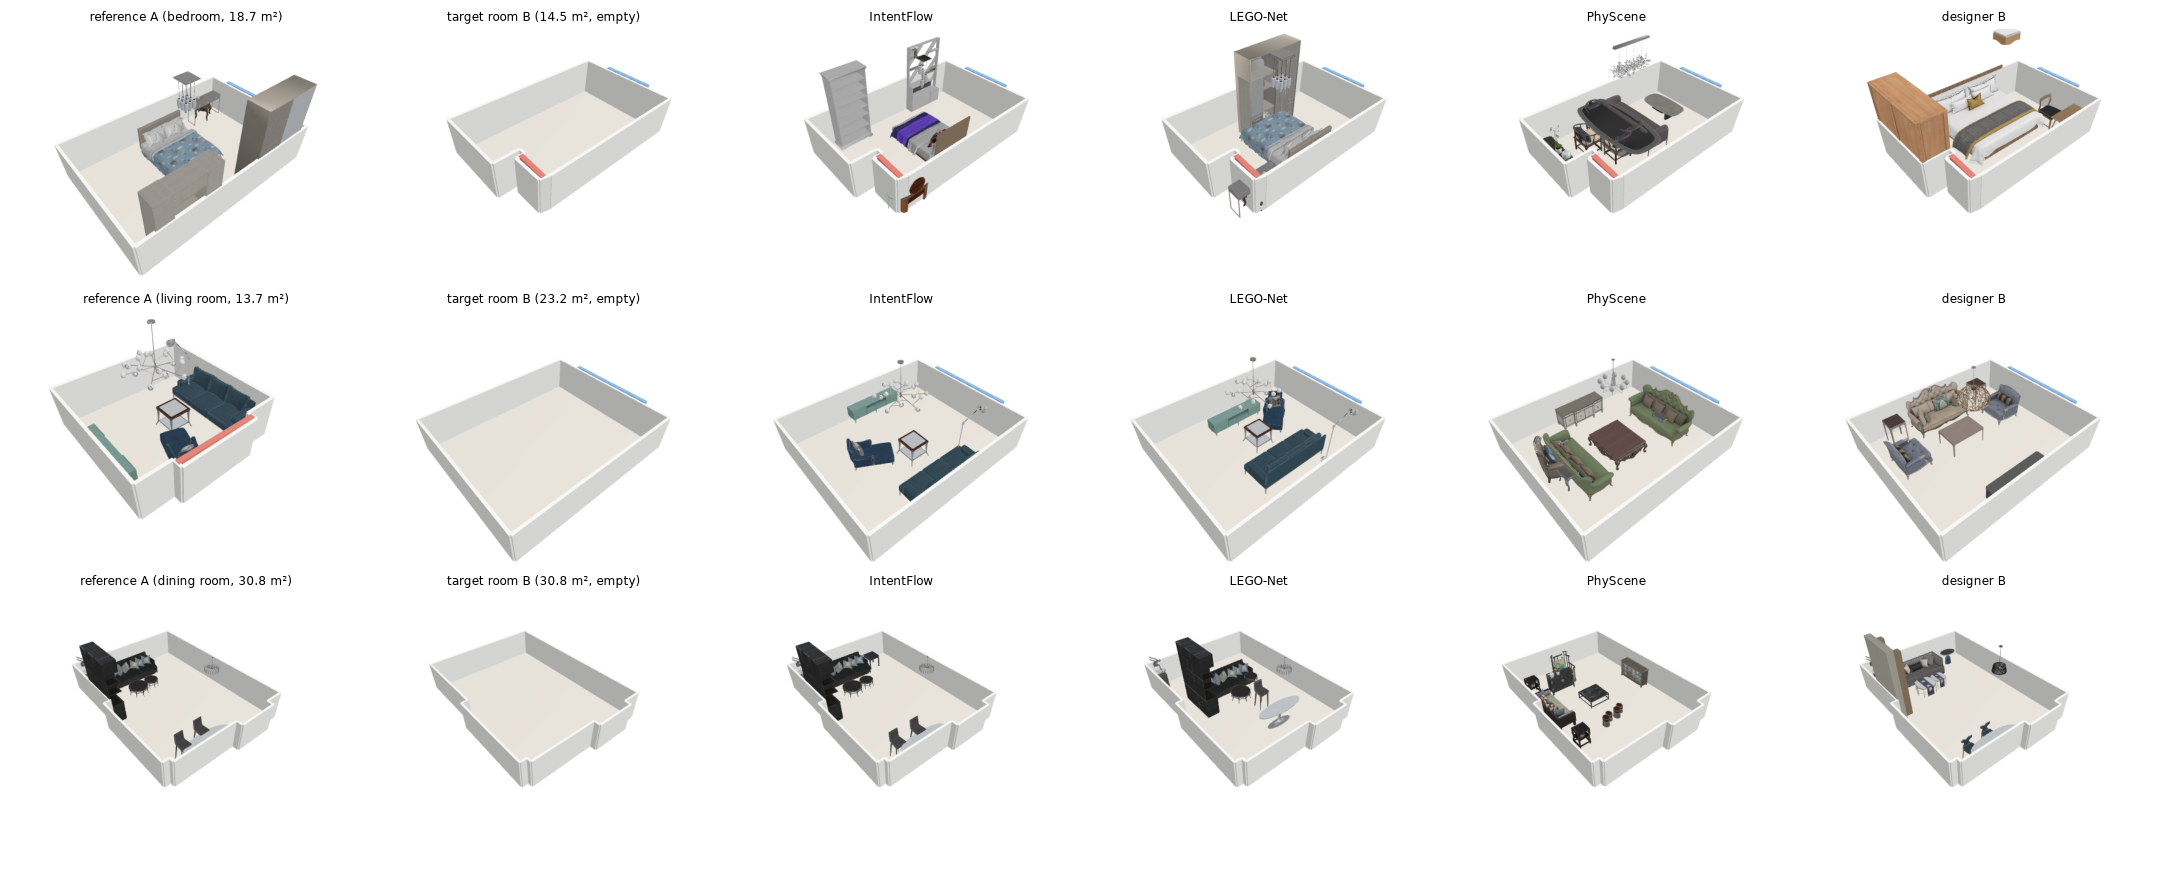
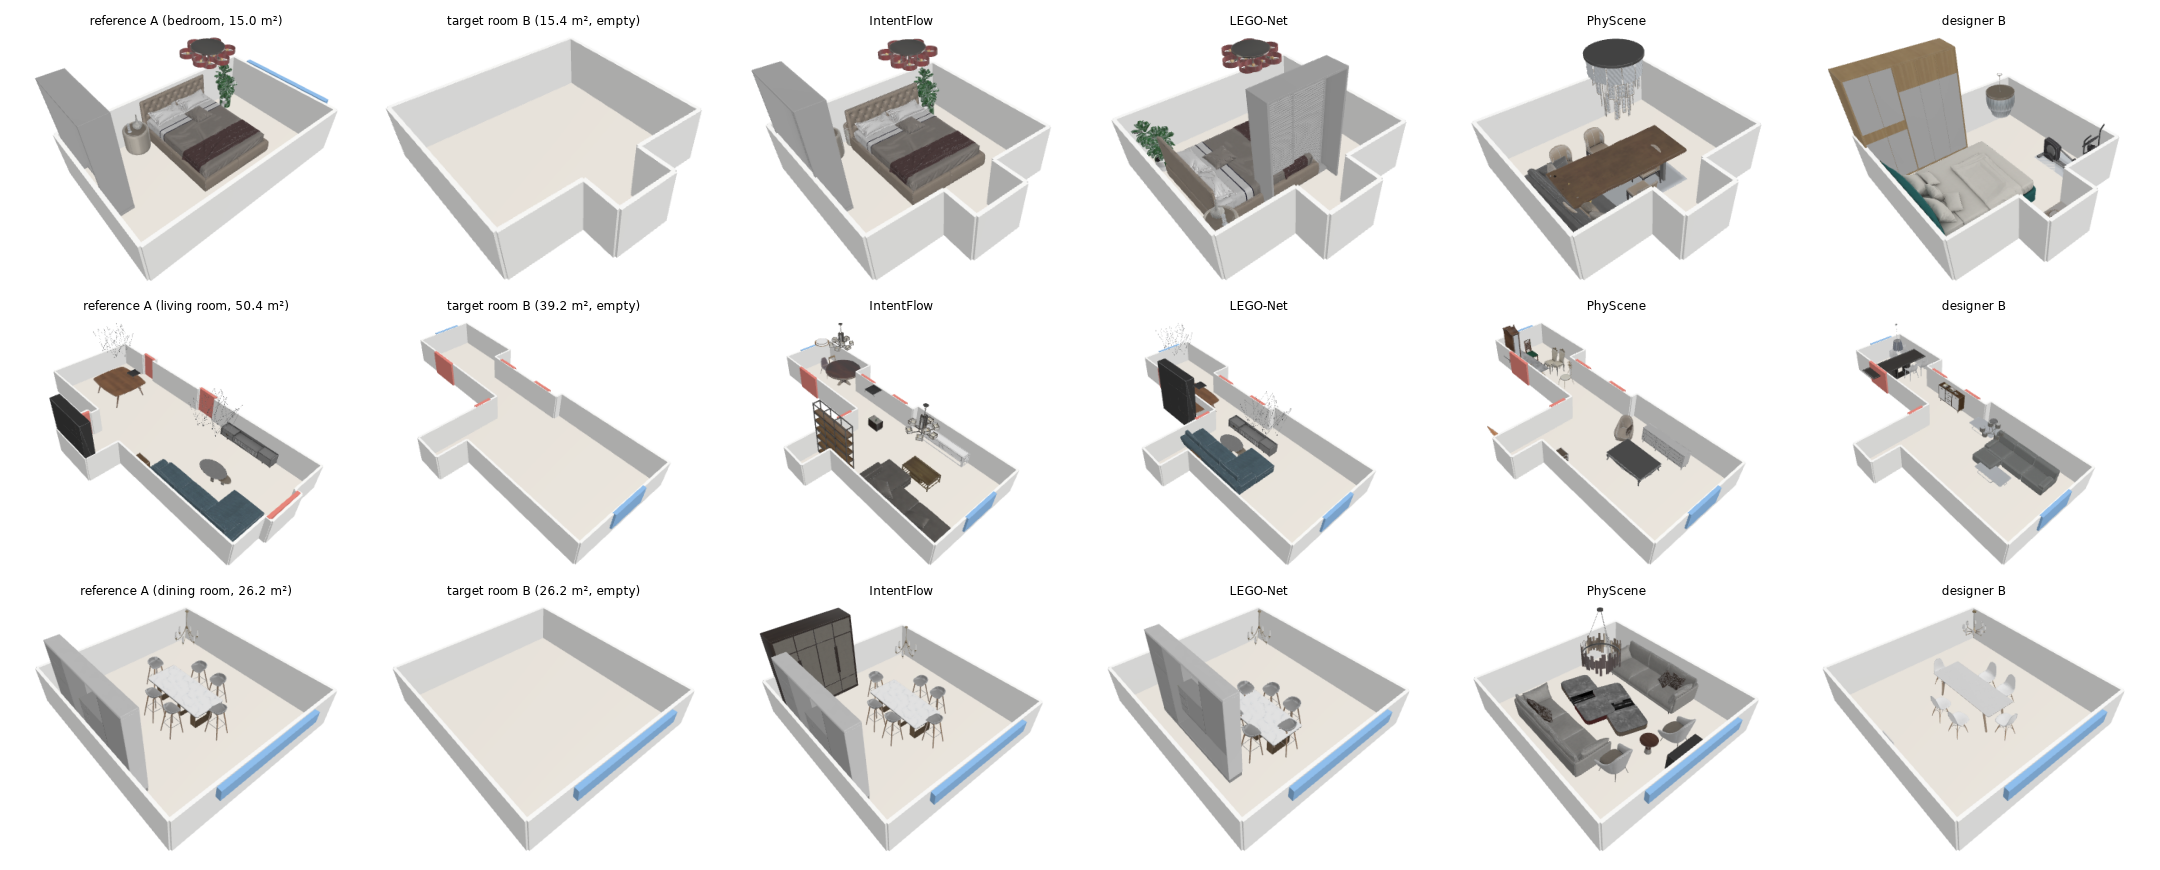
v0.3_paper: Figure 1 rows are the typical pair of each room type (D_A closest to the median); captions from the rows' data

diff --git a/v0.3_paper.html b/v0.3_paper.html
@@ -63,7 +63,7 @@
 <h1>IntentFlow: Moving a Home's Arrangement into Another Room with One Transformer</h1>
 <p class="authors">Anonymous submission</p>
 <p class="links"><a href="#method">Method</a><a href="#experiments">Experiments</a><a href="#refs">References</a><a href="#appendix">Appendix</a></p>
-<figure id="fig-teaser"><img src="assets/v03/render3d_paper_real_cap18.png" alt="teaser" loading="lazy"><figcaption><strong>Figure 1.</strong> Moving a home's arrangement into another room (held-out real pairs of the validation split, one per reference room type, rendered with the 3D-FUTURE assets; PhyScene's boxes are shown with the asset of its class nearest in size). Columns: the reference room A; the target room B as given to the methods (walls, doors, windows; empty); IntentFlow in B; LEGO-Net and PhyScene; designer B's own arrangement. IntentFlow keeps A's bed group and sofa group and fits them to the new walls; in the smaller bedroom the wardrobe becomes a smaller asset of the same 3D-FUTURE fine category. LEGO-Net stacks the wardrobe on the bed; PhyScene lays out its own furniture for the floor plan. Walls are cut at 1.1 m; doors red, windows blue.</figcaption></figure>
+<figure id="fig-teaser"><img src="assets/v03/render3d_paper_real_cap18.png" alt="teaser" loading="lazy"><figcaption><strong>Figure 1.</strong> Moving a home's arrangement into another room, rendered with the 3D-FUTURE assets (rows: for each reference room type, the held-out validation pair (both baselines' layouts stored, 5–12 pieces) whose \(D_A\) with IntentFlow is closest to the median of that type: a typical case, not the best). Columns: the reference room A; the target room B as given to the methods (walls, doors, windows; empty); IntentFlow in B; LEGO-Net and PhyScene (stored layouts; PhyScene's boxes are shown with the asset of its class nearest in size); designer B's own arrangement. Rows: bedroom (15.0 → 15.4 m²): IntentFlow keeps 5 of 5 pieces and adds a nightstand; \(D_A\) 0.064 against LEGO-Net 0.124 and PhyScene — (no piece matched); living room (50.4 → 39.2 m²): IntentFlow keeps 9 of 9 pieces and adds two dining chairs and a ceiling lamp (assets at 0.9× where they must shrink); \(D_A\) 0.094 against LEGO-Net 0.185 and PhyScene 0.426; dining room (26.2 → 26.2 m²): IntentFlow keeps 9 of 9 pieces and adds a wardrobe; \(D_A\) 0.020 against LEGO-Net 0.141 and PhyScene 0.031. Beyond the corpus overlap allowance (the measure of \(\Pi_\theta\)), IntentFlow leaves no piece interpenetrating or outside B. LEGO-Net: the double bed and the wardrobe interpenetrate by 26 cm (bedroom); the wardrobe and the dining table interpenetrate by 40 cm and 3 pieces stand outside B (living room); the dining table and the dining chair interpenetrate by 22 cm (dining room). PhyScene, which lays out its own furniture from its living-room classes: the dining table and the loveseat interpenetrate by 78 cm (bedroom); the sideboard and the dining table interpenetrate by 60 cm and one piece stands outside B (living room); two coffee tables interpenetrate by 3 cm (dining room).  Walls are cut at 1.1 m; doors red, windows blue.</figcaption></figure>
 <div class="abstract"><p><strong>Abstract.</strong> People who like the arrangement of another home want it in their own: the same kind of furniture, arranged the same way,
 in a room with another size and outline and with doors and windows elsewhere. A designer doing this keeps what matters, drops what no longer fits, adds what the new room
 calls for, and places everything so that the groups and their relations to the walls survive. We present IntentFlow, one transformer that makes all of these decisions.
@@ -278,8 +278,8 @@ the torn-pair differences are not significant (p=0.270, p=0.130). Its largest ou
 over all columns is 1.8%. The affine transplant keeps the arrangement best — \(D_A=0.069\) — but leaves 30.7% of pieces outside
 the room: \(D\) measures arrangement, not feasibility, and the gap between the transplant and IntentFlow is what feasibility costs.</p>
 <h3>5.3. Qualitative results</h3>
-<p><a href="#fig-teaser">Fig. 1</a> shows held-out real pairs of the validation split. IntentFlow keeps the reference's bed and sofa groups against the walls of the new room; LEGO-Net moves the transplanted pieces but can
-stack them (the wardrobe on the bed); PhyScene furnishes the floor plan with its own furniture. <a href="#fig-render_std">Fig. 4</a> shows the standard tests; Appendix E adds 2D views of the validation standard tests and of the style test.</p>
+<p><a href="#fig-teaser">Fig. 1</a> shows one typical held-out real pair per room type (the pair whose \(D_A\) is closest to the median of its type). IntentFlow keeps the reference's groups and their
+walls; LEGO-Net moves the transplanted pieces but leaves them overlapping; PhyScene furnishes the floor plan with its own furniture. <a href="#fig-render_std">Fig. 4</a> shows the standard tests; Appendix E adds 2D views of the validation standard tests and of the style test.</p>
 <figure id="fig-render_std"><img src="assets/v03/render3d_paper_std_cap18.png" alt="render_std" loading="lazy"><figcaption><strong>Figure 4.</strong> Standard tests in 3D (validation rooms). Rows: a dining room, a bedroom and a living room; columns: the reference, the room scaled to 0.8× and 1.2×, an L-shaped and a trapezoid room. Titles give pieces kept / reference pieces and pieces added. In the shrunk bedroom fewer pieces are kept and the bed becomes a smaller asset of the same fine category; in the trapezoid and partly in the L room dining chairs drift toward the walls (§5.4).</figcaption></figure>
 <h3>5.4. Ablations</h3>
 <p><strong>Additions.</strong> Table 4 compares addition rules. Proposing one piece at a time and stopping when the set is likely complete, with catch-all categories

diff --git a/v0.3.html b/v0.3.html
@@ -500,7 +500,7 @@ a reference only.</p>
 <tr><td>library (5)</td><td>0.040 / 18%</td><td>0.219 / 21%</td><td>0.389 / 14%</td><td>0.046 / 0%</td></tr>
 </tbody></table></div>
 <p class="lead"><strong>Table 14.</strong> Held-out real pairs per room type: \(D_A\) / out of room. Both baselines are living-room checkpoints; the living-room row is their own domain.</p>
-<figure id="fig-render_real"><img src="assets/v03/render3d_paper_real_cap18.png" alt="render_real" loading="lazy"><figcaption><strong>Figure 3.</strong> Held-out real pairs rendered with the 3D-FUTURE assets (validation; one pair per reference room type). Columns: the reference A; the empty target room B (walls, doors, windows, as given to the methods); IntentFlow (cap18) in B's empty room; LEGO-Net and PhyScene from their stored layouts; designer B's own room. IntentFlow keeps A's bed group and sofa group; in the smaller bedroom its wardrobe is a smaller asset of the same 3D-FUTURE fine category. LEGO-Net stacks the wardrobe on the bed; PhyScene lays out its own furniture for the floor plan and cannot follow A. PhyScene stores classes and boxes only; its boxes are shown with the 3D-FUTURE asset of the mapped category nearest in size, as its own retrieval does. Walls are cut at 1.1 m; doors red, windows blue.</figcaption></figure>
+<figure id="fig-render_real"><img src="assets/v03/render3d_paper_real_cap18.png" alt="render_real" loading="lazy"><figcaption><strong>Figure 3.</strong> Held-out real pairs rendered with the 3D-FUTURE assets (validation; one typical pair per reference room type). Columns: the reference A; the empty target room B (walls, doors, windows, as given to the methods); IntentFlow (cap18) in B's empty room; LEGO-Net and PhyScene from their stored layouts; designer B's own room. Rows: for each reference room type, the pair whose IntentFlow D_A is closest to the median of that type (a typical case; scripts/render_paper.py). PhyScene stores classes and boxes only; its boxes are shown with the 3D-FUTURE asset of the mapped category nearest in size, as its own retrieval does. Walls are cut at 1.1 m; doors red, windows blue.</figcaption></figure>
 <figure id="fig-std_scale"><img src="assets/v03/std_scale_p4_cap18.png" alt="std_scale" loading="lazy"><figcaption><strong>Figure 4.</strong> IntentFlow (cap18), scale test (validation). One reference per row (left), then the room scaled from 0.7× to 1.3×. Titles: pieces kept / reference pieces and pieces added; door boxes red, wall-touching sides red, added pieces green. Additions are plausible: a sideboard in the dining room at 1.1×, wardrobes in the bedrooms at 1.1×–1.3×, pendant lamps and an armchair in the smaller bedroom. The smaller bedroom at 0.9× now keeps the reference orientation. Failure: dining chairs still crowd the table at 0.7×.</figcaption></figure>
 <figure id="fig-std_shape"><img src="assets/v03/std_shape_p4_cap18.png" alt="std_shape" loading="lazy"><figcaption><strong>Figure 5.</strong> IntentFlow (cap18), outline test (validation). The living rooms are sound. Failures: dining chairs drift to the walls in the trapezoid and partly in the L outline — the walls-against-groups trade-off of §6.6 — and the bedroom in the long 1.6x1.0 room receives a second wardrobe beside the first and a dining chair.</figcaption></figure>
 <figure id="fig-render_std"><img src="assets/v03/render3d_paper_std_cap18.png" alt="render_std" loading="lazy"><figcaption><strong>Figure 6.</strong> Standard tests in 3D (validation, IntentFlow cap18): three rooms of the scale and outline tests; reference, then scaled, L- and trapezoid-shaped targets. Titles give pieces kept / reference pieces and pieces added. Dining chairs drift toward the walls in the trapezoid and partly in the L room (§6.6); the bedroom in the shrunk room keeps fewer pieces, with a smaller king-size bed of the same 3D-FUTURE fine category.</figcaption></figure>
